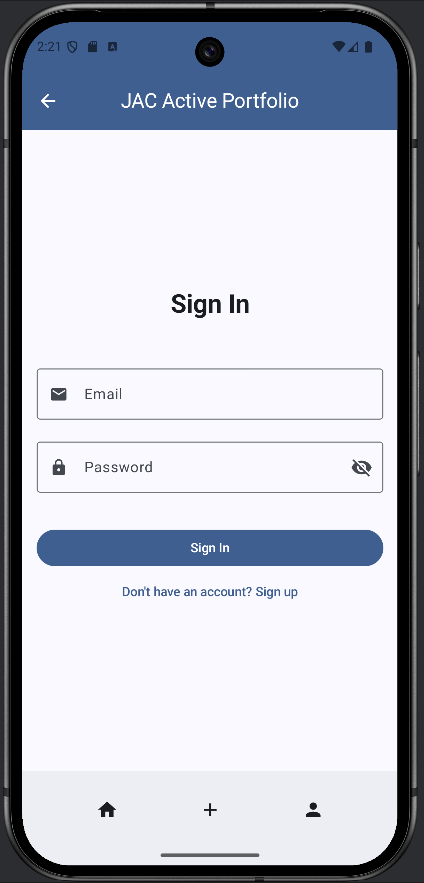
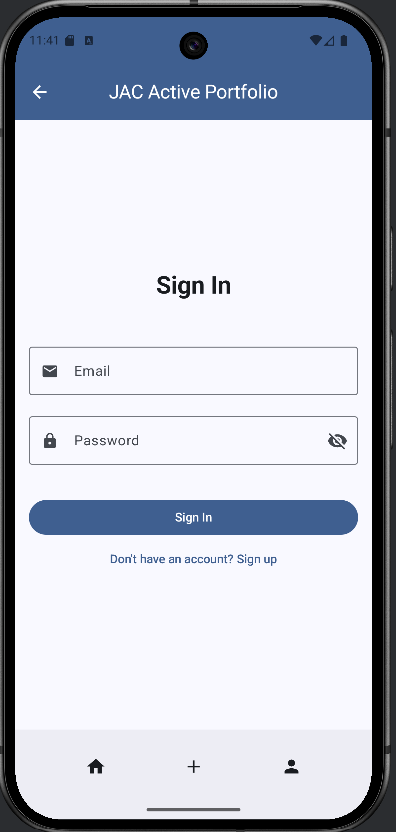
feat: Merge Linyue's Launcher Integration to Main (#47)
* refactor: Update Linyue's launcher integration

- Fix email prefill from launcher intent
- Update return data to include extended user profile fields

* doc: update readme images

---------

diff --git a/app/src/main/java/com/example/active_portfolio_mobile/ui/profile/ProfilePage.kt b/app/src/main/java/com/example/active_portfolio_mobile/ui/profile/ProfilePage.kt
@@ -1,6 +1,7 @@
 package com.example.active_portfolio_mobile.ui.profile
 
 import android.app.Activity
+import android.content.Intent
 import androidx.activity.ComponentActivity
 import androidx.compose.foundation.background
 import androidx.compose.foundation.border
@@ -386,6 +387,27 @@ fun ProfilePage(
                         }, enabled = allLoaded
                     ) {
                         Text("Get Portfolio static!!")
+                    }
+                }
+
+
+                // ===== Check if it was opened by Linyue's launcher app
+                if (activity.intent.getBooleanExtra("from_linyue_launcher", false)) {
+                    Spacer(modifier = Modifier.height(15.dp))
+                    Button(onClick = {
+                        val resultIntent = Intent()
+                        resultIntent.putExtra("name", user.firstName + " " + user.lastName)
+                        resultIntent.putExtra("email", user.email)
+                        resultIntent.putExtra("username", user.username ?: "")
+                        resultIntent.putExtra("role", user.role)
+                        resultIntent.putExtra("program", user.program ?: "")
+                        resultIntent.putExtra("bio", user.bio ?: "")
+                        activity.setResult(Activity.RESULT_OK, resultIntent)
+
+                        authViewModel.logout()
+                        activity.finish()
+                    }) {
+                        Text("Return to Linyue's Launcher")
                     }
                 }
             }

diff --git a/app/src/main/java/com/example/active_portfolio_mobile/screen/LandingPage.kt b/app/src/main/java/com/example/active_portfolio_mobile/screen/LandingPage.kt
@@ -4,16 +4,9 @@ import android.util.Log
 import androidx.compose.foundation.background
 import androidx.compose.foundation.layout.*
 import androidx.compose.foundation.shape.RoundedCornerShape
-import androidx.compose.material.icons.Icons
-import androidx.compose.material.icons.filled.Search
 import androidx.compose.material3.Button
 import androidx.compose.material3.ButtonDefaults
-import androidx.compose.material3.Icon
-import androidx.compose.material3.IconButton
-import androidx.compose.material3.LocalTextStyle
 import androidx.compose.material3.MaterialTheme
-import androidx.compose.material3.OutlinedTextField
-import androidx.compose.material3.SearchBar
 import androidx.compose.material3.Text
 import androidx.compose.runtime.Composable
 import androidx.compose.runtime.getValue
@@ -29,7 +22,6 @@ import androidx.compose.ui.unit.sp
 import androidx.navigation.NavController
 import com.example.active_portfolio_mobile.navigation.LocalNavController
 import com.example.active_portfolio_mobile.navigation.Routes
-import com.example.active_portfolio_mobile.composables.adventure.TestAdventuresFetch
 import com.example.active_portfolio_mobile.layouts.MainLayout
 import com.example.active_portfolio_mobile.ui.search.SearchBar
 

diff --git a/app/src/main/java/com/example/active_portfolio_mobile/navigation/Router.kt b/app/src/main/java/com/example/active_portfolio_mobile/navigation/Router.kt
@@ -1,5 +1,6 @@
 package com.example.active_portfolio_mobile.navigation
 
+import androidx.activity.ComponentActivity
 import androidx.compose.foundation.layout.fillMaxSize
 import androidx.compose.runtime.Composable
 import androidx.compose.runtime.CompositionLocalProvider
@@ -103,7 +104,12 @@ fun Router(modifier: Modifier) {
                 }
                 // Auth
                 composable(Routes.Login.route) {
+                    val context  = LocalContext.current
+                    val activity = context as? ComponentActivity
+                    val prefilledEmail = activity?.intent?.getStringExtra("prefilled_email") ?: ""
+
                     LoginPage(
+                        startingEmail = prefilledEmail,
                         viewModel = authViewModel,
                         onNavigateToSignUp = { navController.navigate(Routes.SignUp.route) },
                         onLoginSuccess = {

diff --git a/README.md b/README.md
@@ -57,8 +57,14 @@ How to install and launch your application.
 **Profile Edit page:**
  - ![The profile edit page, updating a text section](./readme_images/profile_edit.png)
 
-**Profile Edit Field page:**
- - ![The profile edit field page, updating a text section](./readme_images/profile_update_field.png)
+**Other User Profile page:**
+ - ![The other user profile page, updating a text section](./readme_images/other_user_profile.png)
+
+**Search Result page:**
+- ![The search result page, updating a text section](./readme_images/search_result.png)
+
+**User Portfolio page:**
+- ![The user portfolio page, updating a text section](./readme_images/user_portfolio.png)
 
 **Portfolio Creation page:**
  - ![The portfolio creation field page](./readme_images/portfoio_creation.png)
